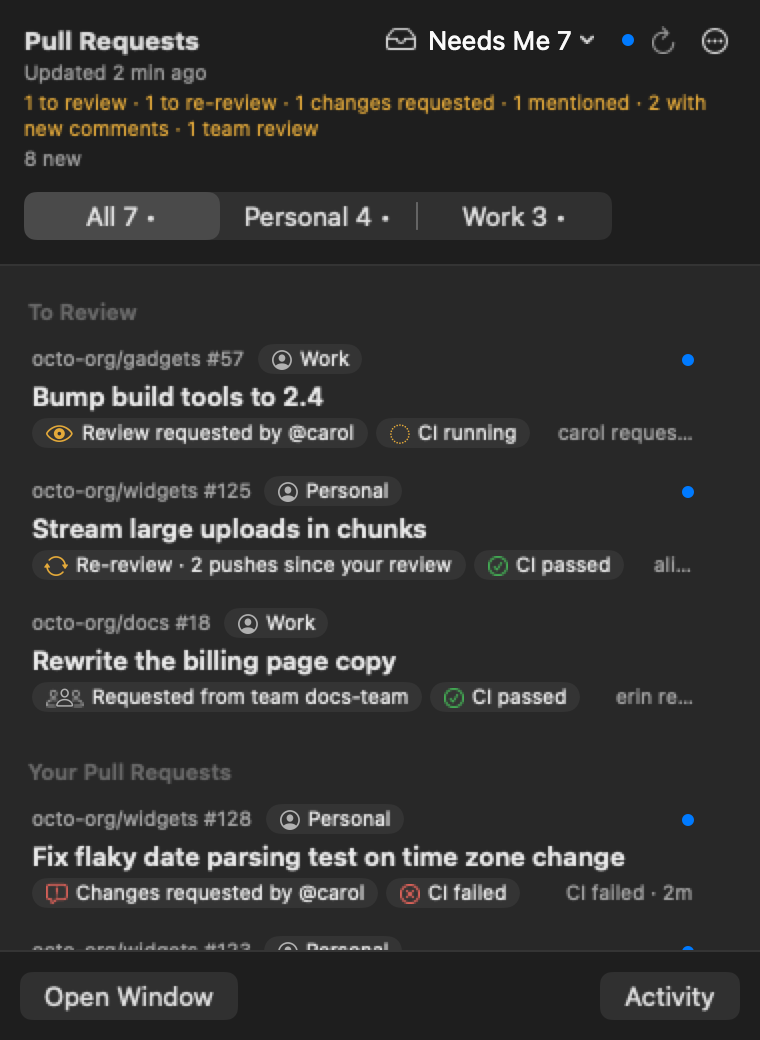
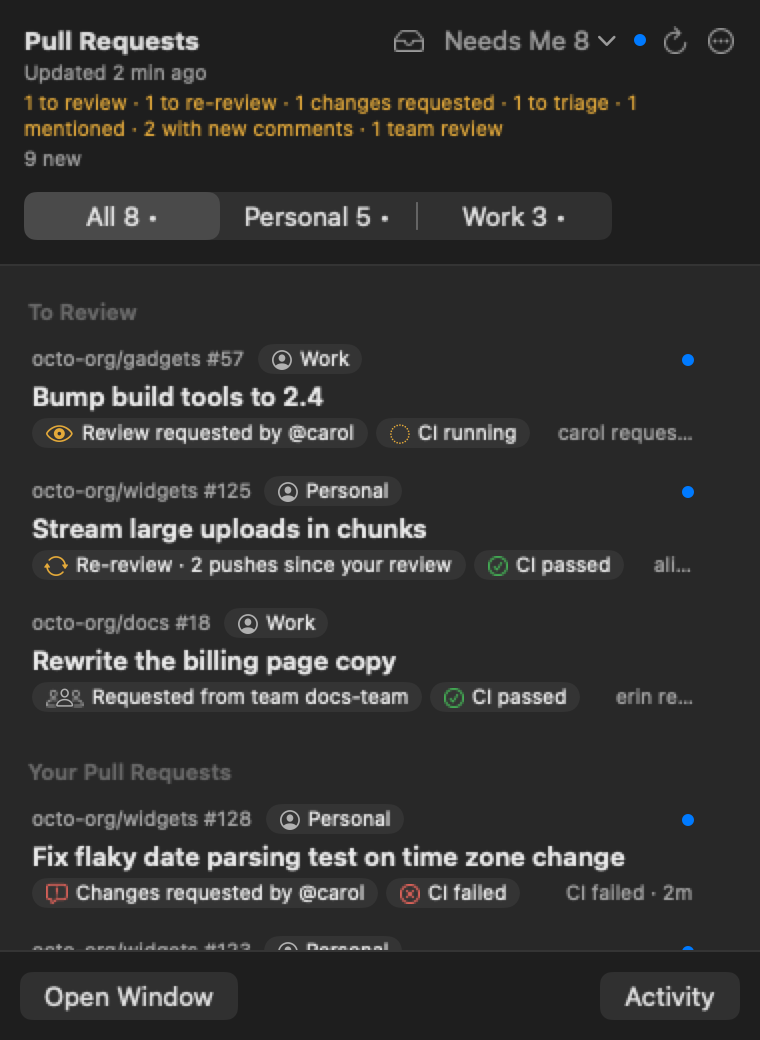
docs: status panel shows 0.7.0 (to triage); SECURITY lists the triage comment write

diff --git a/SECURITY.md b/SECURITY.md
@@ -28,7 +28,8 @@ It requests no elevated privileges and has no analytics. Relevant areas:
   `settings`, and never acts on anything but PullPing's own state.
 - **Background runs** (off by default; Claude Code only, `BackgroundPlanner.unsupported`): the headless agent command
   line (`BackgroundPlanner.command`: read-only tools, no shell, network or MCP, never a permission-bypass flag), the checks on the agent's answer
-  (`BackgroundPlanner.output`), and the one GitHub write, a review posted only from the draft window on a click
-  (`GitHubClient.postReview`), pinned to the reviewed commit.
+  (`BackgroundPlanner.output`), and the only GitHub writes: a review (`GitHubClient.postReview`, pinned to the reviewed
+  commit) or one comment on an issue (`GitHubClient.postIssueComment`, a triage reply), each posted only from the draft
+  window on a click.
 - **Local data:** pull request titles and activity are kept in
   `~/Library/Application Support/PullPing`; delete the folder to remove them.
